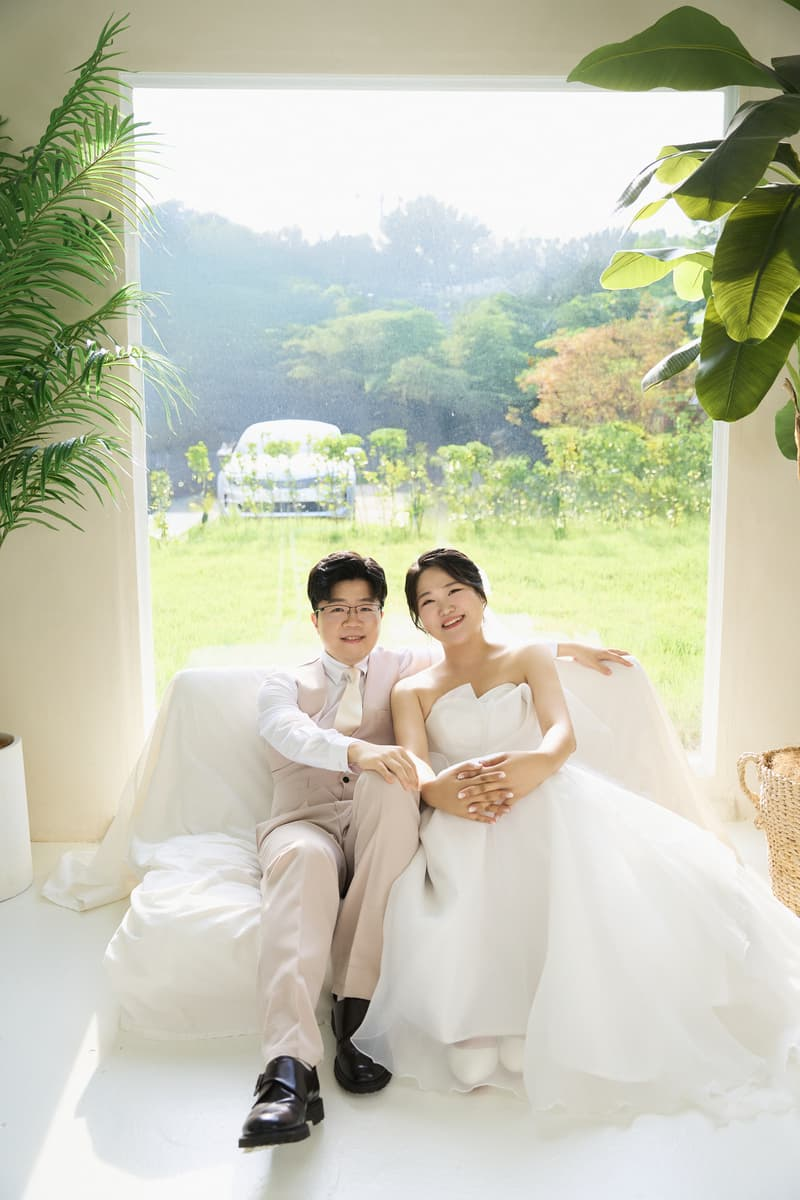
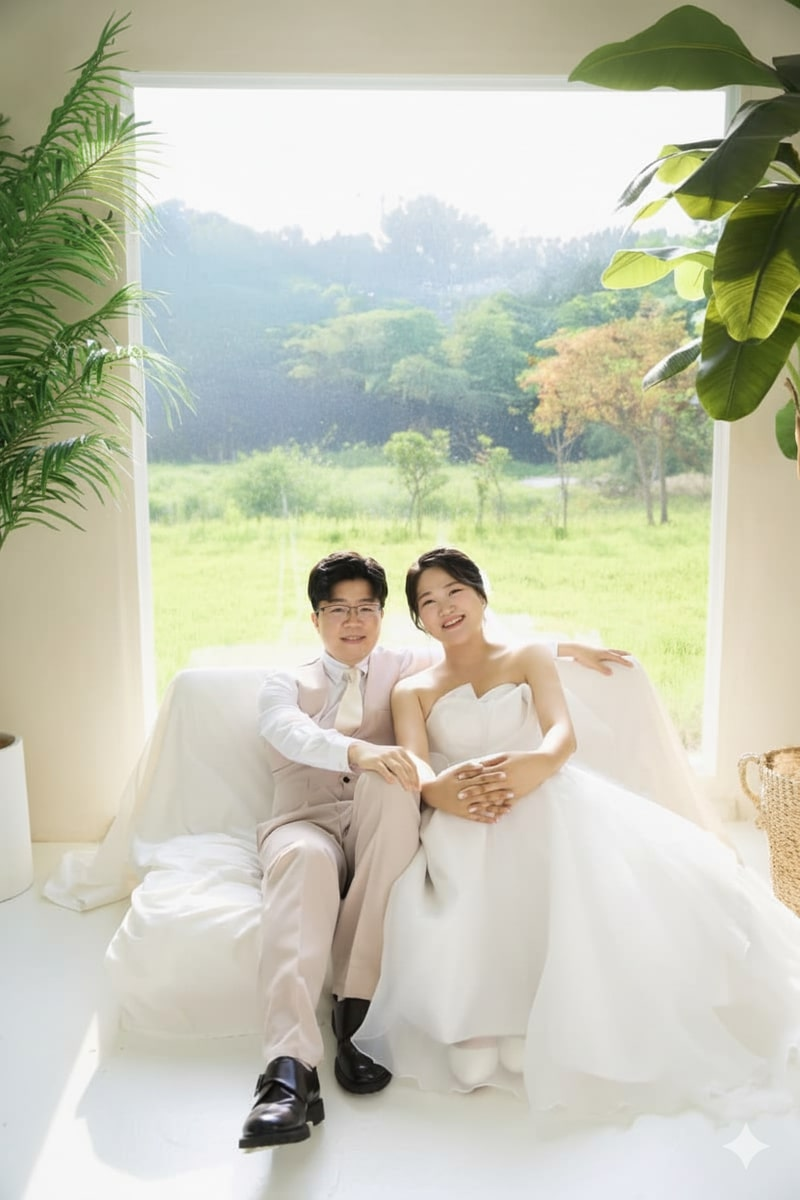
w

diff --git a/src/const.ts b/src/const.ts
@@ -20,7 +20,8 @@ export { dayjs }
 export const WEDDING_DATE = dayjs.tz("2025-11-30 13:30", "Asia/Seoul")
 export const HOLIDAYS = [15]
 
-export const LOCATION = "인천 CN웨딩홀 (계산점), 5층"
+export const LOCATION = "인천 CN웨딩홀 (계산점)"
+export const LOCATION_FULL = "인천 CN웨딩홀 (계산점), 5층"
 export const LOCATION_ADDRESS = "인천 계양구 경명대로 1108"
 
 export const SHARE_ADDRESS = LOCATION
@@ -34,52 +35,52 @@ export const KMAP_PLACE_ID = 248149939
 export const BRIDE_FULLNAME = "이충화"
 export const BRIDE_FIRSTNAME = "충화"
 export const BRIDE_TITLE = "딸"
-export const BRIDE_FATHER = "아버지성함"
-export const BRIDE_MOTHER = "어머니성함"
+export const BRIDE_FATHER = "이해영"
+export const BRIDE_MOTHER = "최영옥"
 export const BRIDE_INFO = [
   {
     relation: "신부",
     name: BRIDE_FULLNAME,
-    phone: "010-0000-0000",
-    account: "우리은행 0000000000000",
+    phone: "010-7197-3096",
+    account: "국민 406602 04 286864",
   },
-  {
-    relation: "신부 아버지",
-    name: BRIDE_FATHER,
-    phone: "010-0000-0000",
-    account: "하나은행 00000000000",
-  },
+  // {
+  //   relation: "신부 아버지",
+  //   name: BRIDE_FATHER,
+  //   phone: "010-0000-0000",
+  //   account: "하나 00000000000",
+  // },
   {
     relation: "신부 어머니",
     name: BRIDE_MOTHER,
-    phone: "010-0000-0000",
-    account: "하나은행 00000000000000",
+    phone: "010-6291-7096",
+    account: "신한 110 556 645032",
   },
 ]
 
 export const GROOM_FULLNAME = "김명회"
 export const GROOM_FIRSTNAME = "명회"
 export const GROOM_TITLE = "아들"
-export const GROOM_FATHER = "아버지성함"
-export const GROOM_MOTHER = "어미니성함"
+export const GROOM_FATHER = "김재영"
+export const GROOM_MOTHER = "최종석"
 export const GROOM_INFO = [
   {
     relation: "신랑",
     name: GROOM_FULLNAME,
-    phone: "010-0000-0000",
-    account: "하나은행 00000000000000",
+    phone: "010-9985-5516",
+    account: "농협 30219 53257 671",
   },
   {
     relation: "신랑 아버지",
     name: GROOM_FATHER,
     phone: "010-0000-0000",
-    account: "신한은행 000000000000",
+    account: "농협 42107 85204 8610",
   },
   {
     relation: "신랑 어머니",
     name: GROOM_MOTHER,
-    phone: "010-0000-0000",
-    account: "국민은행 000000000000",
+    phone: "010-2399-5516",
+    account: "농협 42107 85101 7749",
   },
 ]
 

diff --git a/src/component/location/index.tsx b/src/component/location/index.tsx
@@ -2,7 +2,7 @@ import { Map } from "./map"
 import { ReactComponent as CarIcon } from "../../image/car-icon.svg"
 import { ReactComponent as BusIcon } from "../../image/bus-icon.svg"
 import { LazyDiv } from "../lazyDiv"
-import { LOCATION, LOCATION_ADDRESS } from "../../const"
+import { LOCATION, LOCATION_ADDRESS, LOCATION_FULL } from "../../const"
 
 export const Location = () => {
   return (
@@ -10,7 +10,7 @@ export const Location = () => {
       <LazyDiv className="card location">
         <h2 className="english">Location</h2>
         <div className="addr">
-          {LOCATION}
+          {LOCATION_FULL}
           <div className="detail">{LOCATION_ADDRESS}</div>
         </div>
         <Map />
@@ -72,9 +72,11 @@ export const Location = () => {
           <div />
           <div className="content">
 
-            - 일시 : 11월 30일, 기사님 연락처(010-1111-222)
+            - 일시 : 11월 30일
             <br />
-            - 출발 : 08시 (제천 수산면 능강리 마을회관 앞)
+            - 기사님 연락처 : 010-4499-8884
+            <br />
+            - 출발 : 08시 (능강리 마을회관)
             <br />
             - 출발 : 09시 (제천역 광장)
             <br />
@@ -90,9 +92,11 @@ export const Location = () => {
           <div />
           <div className="content">
 
-            - 일시 : 11월 21일(금)
+            - 일시 : 11월 21일(금) 오후 4시 ~ 6시
             <br />
-            - 장소 : 제천시 수산면 능강리 호수민박펜션
+            - 장소 : 청풍 황금송어
+            <br />
+            - 주소 : 제천시 금성면 성내리 173번지
             <br />
 
           </div>

diff --git a/src/component/invitation/index.tsx b/src/component/invitation/index.tsx
@@ -1,4 +1,6 @@
 import { Fragment } from "react/jsx-runtime"
+import { ReactComponent as FlowerIcon } from "../../image/flower.svg"
+
 import {
   BRIDE_FULLNAME,
   BRIDE_INFO,
@@ -25,7 +27,7 @@ export const Invitation = () => {
 
       <div className="break" />
 
-      <div className="content">싱그러운 여름 향기 가득한 날</div>
+      <div className="content">황금빛 낙엽이 물드는 계절</div>
       <div className="content">소중한 분들을 모시고</div>
       <div className="content">사랑의 약속을 하려고 합니다.</div>
       <div className="break" />
@@ -46,6 +48,7 @@ export const Invitation = () => {
         {GROOM_FULLNAME}
       </div>
       <div className="name">
+        <FlowerIcon className="arrow" />
         {BRIDE_FATHER} · {BRIDE_MOTHER}
         <span className="relation">
           의 <span className="relation-name">{BRIDE_TITLE}</span>

diff --git a/src/component/information/index.tsx b/src/component/information/index.tsx
@@ -9,14 +9,14 @@ export const Information = () => {
   return (
     <LazyDiv className="card information">
       <h2 className="english">Information</h2>
-      <div className="info-card">
-        <div className="label">식사 안내</div>
-        <div className="content">
-          식사시간: 12시 30분 ~ 14시 30분
-          <br />
-          장소: 지하 1층 연회장
-        </div>
-      </div>
+      {/*<div className="info-card">*/}
+      {/*  <div className="label">식사 안내</div>*/}
+      {/*  <div className="content">*/}
+      {/*    식사시간: 12시 30분 ~ 14시 30분*/}
+      {/*    <br />*/}
+      {/*    장소: 지하 1층 연회장*/}
+      {/*  </div>*/}
+      {/*</div>*/}
 
       <div className="info-card">
         <div className="label">마음 전하기</div>

diff --git a/src/component/cover/index.tsx b/src/component/cover/index.tsx
@@ -1,8 +1,8 @@
 import {
   BRIDE_FULLNAME,
   GROOM_FULLNAME,
-  LOCATION,
-  WEDDING_DATE,
+  LOCATION, LOCATION_FULL,
+  WEDDING_DATE
 } from "../../const"
 import coverImage from "../../image/new/cover.jpg"
 import { LazyDiv } from "../lazyDiv"
@@ -42,7 +42,7 @@ export const Cover = () => {
       <div className="info">
         {WEDDING_DATE.format("YYYY년 MMMM D일 dddd A h시 mm분")}
       </div>
-      <div className="info">{LOCATION}</div>
+      <div className="info">{LOCATION_FULL}</div>
     </LazyDiv>
   )
 }

diff --git a/src/component/shareButton/index.tsx b/src/component/shareButton/index.tsx
@@ -36,7 +36,7 @@ export const ShareButton = () => {
                 "//" +
                 window.location.host +
                 process.env.PUBLIC_URL +
-                "/preview_image.png",
+                "/preview.jpg",
               link: {
                 mobileWebUrl:
                   window.location.protocol +
